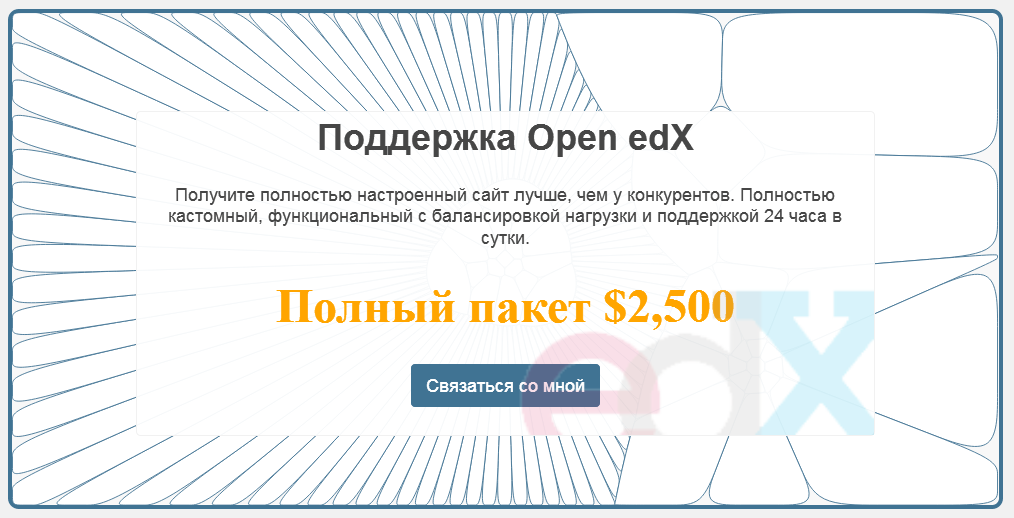
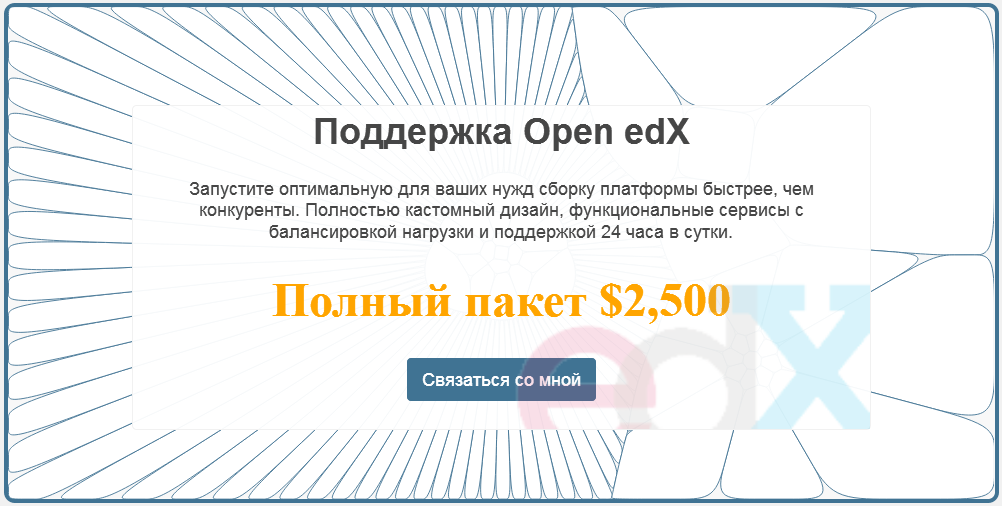
reuodate

diff --git a/index.html b/index.html
@@ -1,17 +1,14 @@
 <!doctype html>
 <html lang="en">
   <head>
-    <!--
-      © 2018 Lawrence McDaniel | https://lawrencemcdaniel.com
-                               | https://www.linkedin.com/in/lawrencemcdaniel/
-                               | https://angel.co/lpm0073-gmail-com
-
+    <!-- 
       Custom HTML5 / CSS3 / JS web site
       When every milisecond matters!
 
       Credits:    Responsive design by Bootstrap 4
                   Insanely cool animated graphics by D3 | Mike Bostock
-                  Bistering speed assisted in no small measure by Amazon Web Services
+                  Thanks to Lawrence McDaniel for this boilerlate.
+                  Russian translate |  Andropov Vladimir
     -->
     <title>Open edX Consultant</title>
     <meta charset="utf-8">
@@ -327,7 +324,7 @@ var s = document.getElementsByTagName('script')[0];s.parentNode.insertBefore(glc
           <div class="col-sm-12 col-md-3 contact-left">
           </div>
           <div class="col-sm-12 col-md-9 contact-right float-right">
-            <p>Я кот Андрей, я  опытный веб-разработчик и эксперт по облачным вычислениям, специализирующийся на развертывании Open edX платформы для государственных и частных учебных заведений.  Я предоставляю индивидуальное обслуживание и быстрое реагирование для моих любимых и очень довольных клиентов в русском сегменте. У всех моих клиентов есть мой личный номер мобильного телефона и они могут связаться со мной в любое время, а также через Telegram или электронной почты.</p>
+            <p>Меня зовут Владимир Андропов, я  опытный веб-разработчик и практик облачных вычислений, специализирующийся на развертывании Open edX платформы для государственных и частных учебных заведений.  Я предоставляю индивидуальное обслуживание и быстрое реагирование для моих любимых и очень довольных результатом клиентов в русском сегменте. У всех моих друзей есть мой личный номер мобильного телефона и они могут связаться со мной в любое время, а также через Telegram или электронной почтой.</p>
             <hr />
 
             <ul>
@@ -347,7 +344,7 @@ var s = document.getElementsByTagName('script')[0];s.parentNode.insertBefore(glc
 
     </div>    <!-- container -->
 
-     <a class="btn btn-secondary btn-lg btn-block" href="http://hundredx.ru/open-edx-budget.xlsx" role="button">Для оценки времени и средств воспользуйтесь прайс-листом</a>   
+     <a class="btn btn-secondary btn-lg btn-block" href="http://hundredx.ru/open-edx-budget.xlsx" role="button">А для оценки сил, времени и средств воспользуйтесь прайс-листом</a>   
 
 
         
@@ -355,7 +352,8 @@ var s = document.getElementsByTagName('script')[0];s.parentNode.insertBefore(glc
     <footer class="text-center">
       <hr />
       <div class="">
-        &copy; 2019 кот Андрей, Барсик, Мяука и брат её Каштанчик
+        &copy; 2019 HundredX 
+                  Thanks to Lawrence McDaniel, Mike Bostock, Andropov Vladimir for this boilerlate. 
       </div>
     </footer>
 
